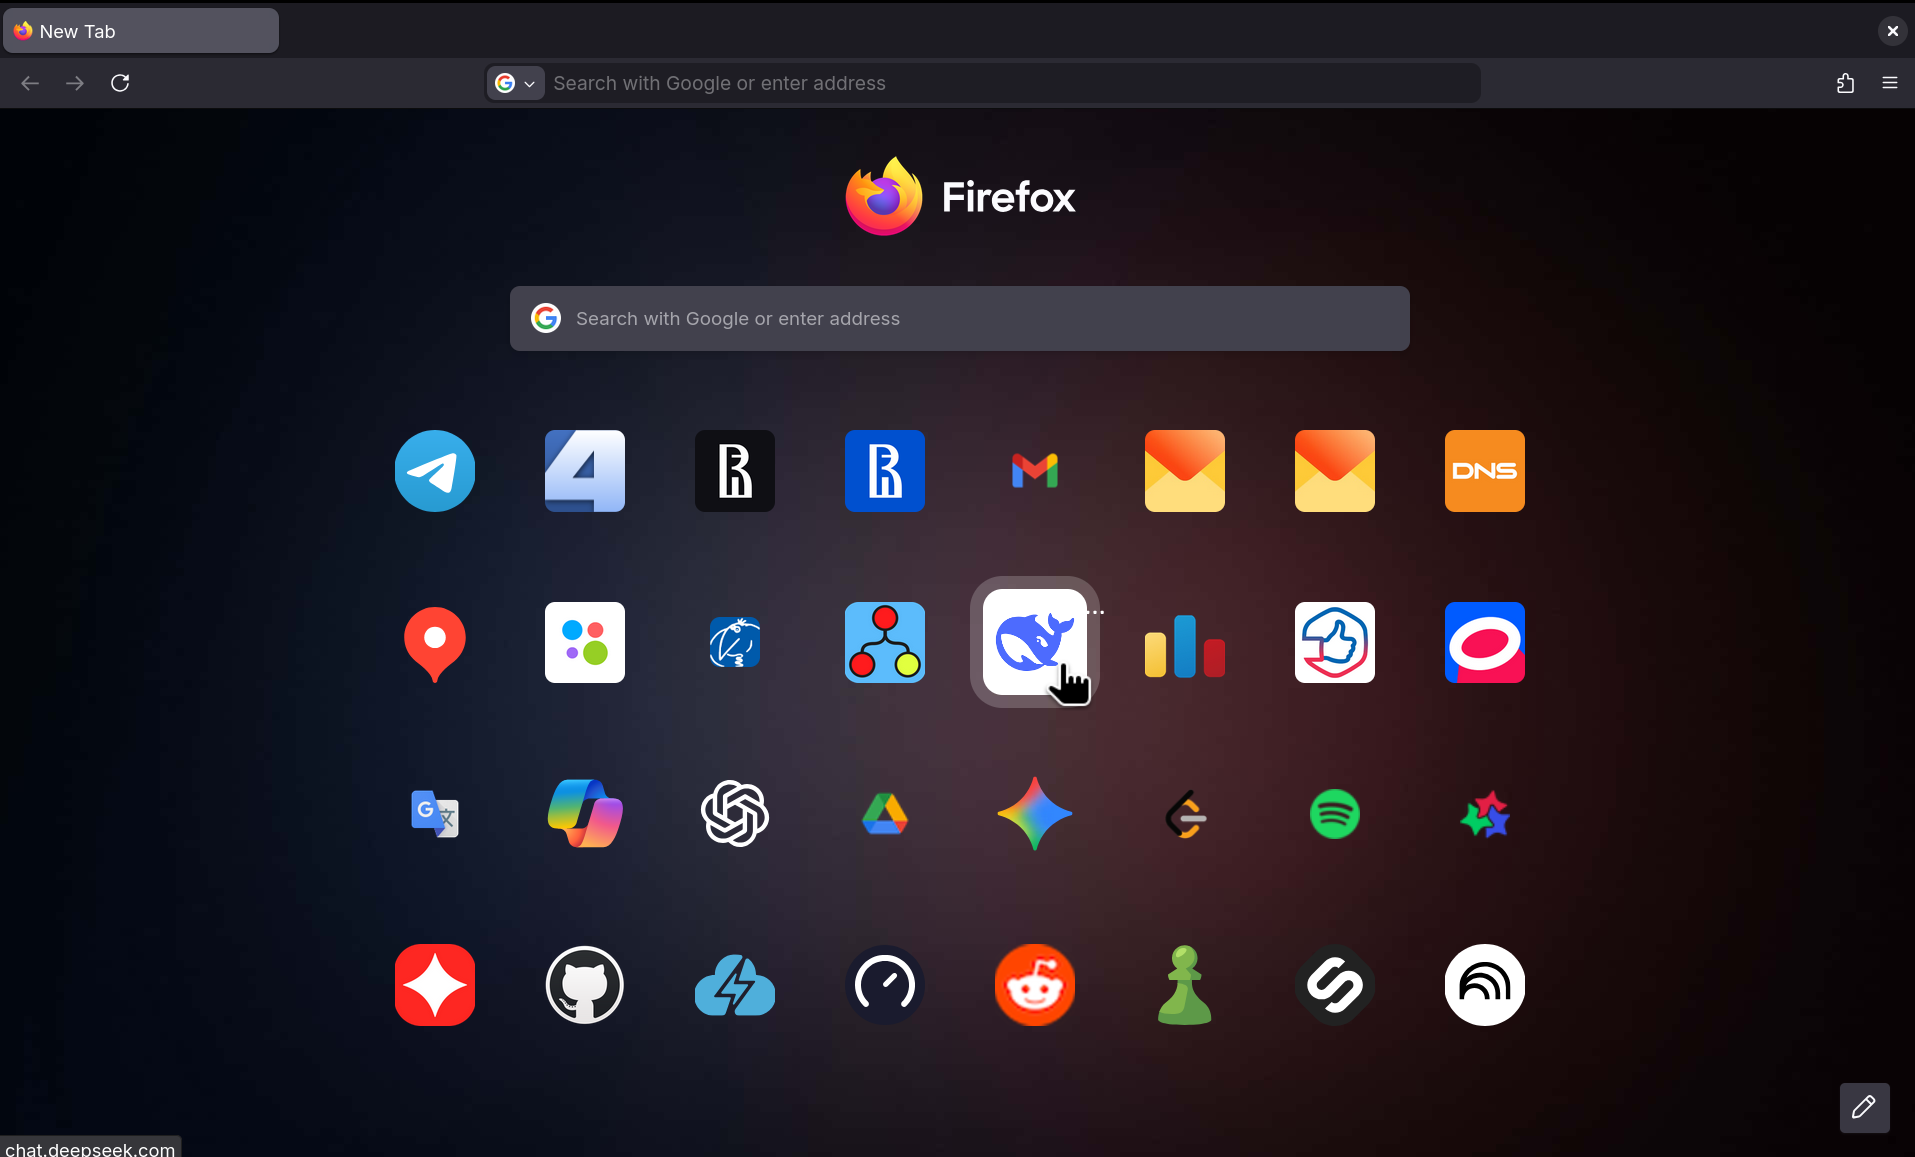
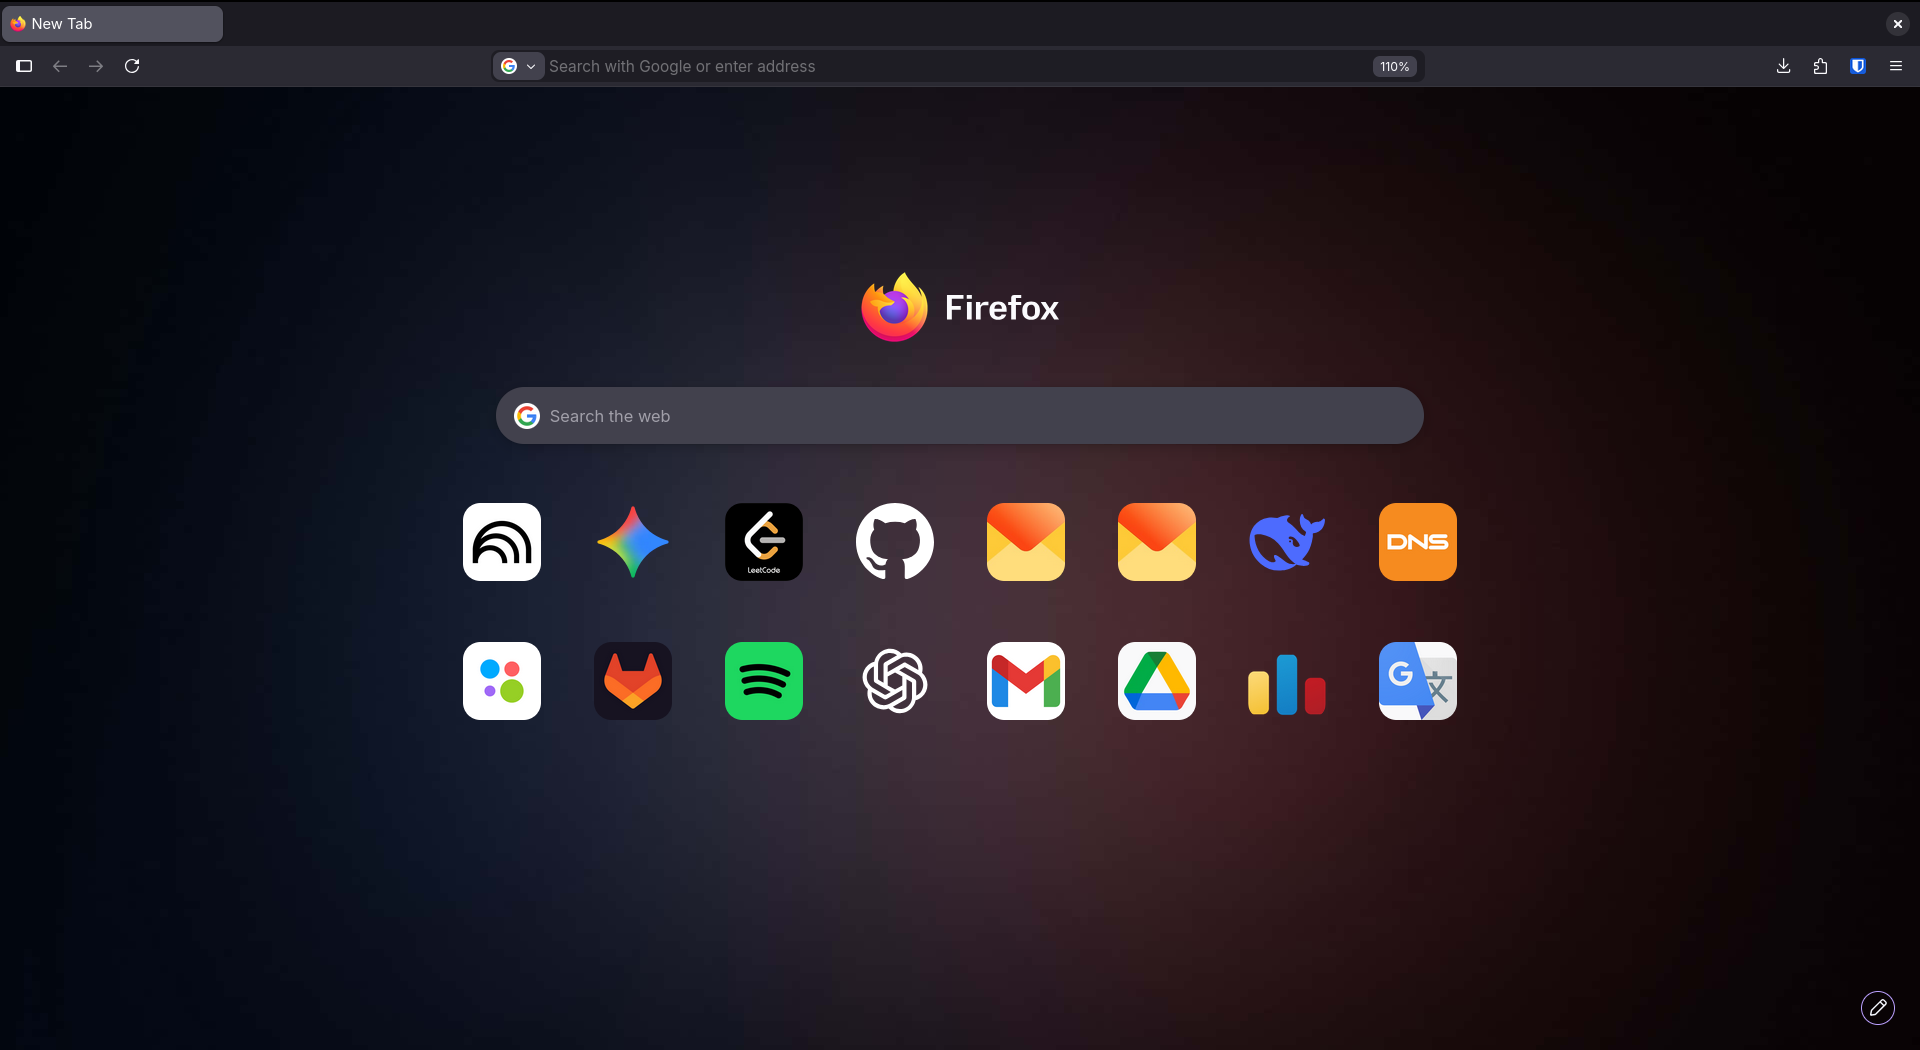
feat: add new UI for Firefox v151.0+

diff --git a/firefox/userContent.css b/firefox/userContent.css
@@ -7,9 +7,60 @@
         background-position: center !important;
     }
 
-    .click-target-container *, .top-sites-list * {
-        color: #fff !important;
-        text-shadow: 2px 2px 2px #222 !important;
+    define-container, :root {
+        --newtab-top-sites-container-width: 1100px !important; 
+        --newtab-pinnable-top-sites-margin: 20px !important;
+        --newtab-tile-shadow-hover: transparent !important;
+        --newtab-element-hover-color: transparent !important;
+        --newtab-focus-outline: transparent !important;
+    }
+
+    .top-sites-list {
+        display: grid !important;
+        grid-template-columns: repeat(8, 96px) !important; 
+        justify-content: center !important;
+        gap: 32px 24px !important; 
+        max-width: 1100px !important;
+        margin: 0 auto !important;
+        padding: 0 !important;
+    }
+
+    .top-site-outer {
+        width: 96px !important;
+        height: 96px !important;
+        padding: 0 !important;
+        margin: 0 !important;
+    }
+
+    .top-site-outer .top-site-inner {
+        position: relative !important;
+        width: 96px !important;
+        height: 96px !important;
+        display: block !important; 
+        margin: 0 !important;
+        padding: 0 !important;
+    }
+
+    .top-site-outer .top-site-button,
+    .top-site-outer .top-site-button:hover,
+    .top-site-outer .top-site-button:focus,
+    .top-site-outer .top-site-button:active,
+    .top-site-outer .tile,
+    .top-site-outer .tile:hover {
+        background-color: transparent !important;
+        background-image: none !important;
+        border: none !important;
+        box-shadow: none !important;
+        outline: none !important;
+        position: static !important;
+    }
+
+    .top-site-outer .top-site-button {
+        display: block !important;
+        width: 100% !important;
+        height: 100% !important;
+        padding: 0 !important;
+        margin: 0 !important;
     }
 
     .top-site-outer .title,
@@ -18,75 +69,81 @@
         display: none !important;
     }
 
-    .top-site-outer {
-        margin-bottom: 45px !important;
-    }
-
-    :root {
-        --newtab-element-hover-color: transparent !important;
-        --newtab-focus-outline: transparent !important;
-    }
-
-    .top-site-outer:hover,
-    .top-site-outer:focus-within,
-    .top-site-outer .top-site-button,
-    .top-site-outer .top-site-button:hover,
-    .top-site-outer .top-site-button:focus,
-    .top-site-outer .top-site-button:active,
     .top-site-outer .tile {
-        background-color: transparent !important;
-        background-image: none !important;
-        border: none !important;
-        box-shadow: none !important;
-        outline: none !important;
-    }
-
-    .top-site-outer:hover .tile .icon-wrapper {
-        background-color: rgba(255, 255, 255, 0.2) !important;
-        border-radius: 12px !important;
-        box-shadow: 0 0 0 8px rgba(255, 255, 255, 0.2) !important;
-    }
-
-    .top-site-outer .context-menu-button {
-        display: flex !important;
-        opacity: 0;
-        transition: opacity 0.2s !important;
-        z-index: 100 !important;
-    }
-
-    .top-site-outer:hover .context-menu-button {
-        opacity: 1;
-        fill: #fff !important;
-    }
-
-    .actions button.primary {
-        background-color: #00dfd8 !important;
-        color: #fff !important;
-    }
-}
-
-@-moz-document url("about:home"), url("about:newtab") {
-    .top-site-outer .tile {
-        transition: transform 0.2s ease-in-out !important;
-    }
-    
-    .top-site-outer:hover .tile {
-        transform: scale(1.3) !important;
-    }
-  
-    .top-site-outer .tile .icon-wrapper {
-        width: 80px !important;
-        height: 65px !important;
+        width: 100% !important;
+        height: 100% !important;
+        margin: 0 !important;
         padding: 0 !important;
+        display: block !important;
+    }
+
+    .top-site-outer .tile .icon-wrapper {
+        position: absolute !important;
+        top: 6px !important;
+        left: 6px !important;
+        width: 84px !important; 
+        height: 84px !important;
+        padding: 0 !important;
+        margin: 0 !important;
         display: flex !important;
         justify-content: center !important;
         align-items: center !important;
-        pointer-events: auto !important;
         background-color: transparent !important;
+        border-radius: 20px !important;
+        transform: scale(1) !important;
+        transform-origin: center center !important;
+        transition: transform 0.13s ease-in-out, background-color 0.08s ease-in-out, box-shadow 0.08s ease-in-out !important;
     }
 
-    .top-site-outer .tile .top-site-icon {
+    .top-site-outer .tile .icon-wrapper .top-site-icon,
+    .top-site-outer .tile .icon-wrapper .page-icon,
+    .top-site-outer .tile .icon-wrapper img {
+        position: static !important;
+        width: 72px !important;  
+        height: 72px !important; 
+        margin: 0 !important;
+        padding: 0 !important;
+        background-size: contain !important;
+        background-position: center !important;
+        object-fit: contain !important; 
+        border-radius: 16px !important; 
+    }
+
+    .top-site-outer:hover .tile .icon-wrapper {
+        transform: scale(1.35) !important; 
+        background-color: rgba(255, 255, 255, 0.18) !important; 
+        box-shadow: 0 0 0 6px rgba(255, 255, 255, 0.18) !important; 
+    }
+
+    .top-site-outer .top-site-inner > div {
+        position: absolute !important;
+        top: 2px !important;
+        right: 2px !important;
+        z-index: 150 !important;
+        margin: 0 !important;
+        padding: 0 !important;
+        display: block !important;
+    }
+
+    .top-site-outer .context-menu-button {
+        position: static !important;
+        margin: 0 !important;
+        transform: none !important;
+        display: flex !important;
+        opacity: 0 !important;
         background-color: transparent !important;
+        border-radius: 50% !important;
+        transition: opacity 0.1s ease-in-out, background-color 0.1s ease-in-out !important;
+    }
+
+    .top-site-outer:hover .context-menu-button {
+        opacity: 0.5 !important;
+        fill: #fff !important;
+    }
+
+    .top-site-outer .context-menu-button:hover {
+        opacity: 1 !important;
+        background-color: rgba(255, 255, 255, 0.25) !important;
     }
 }
 
